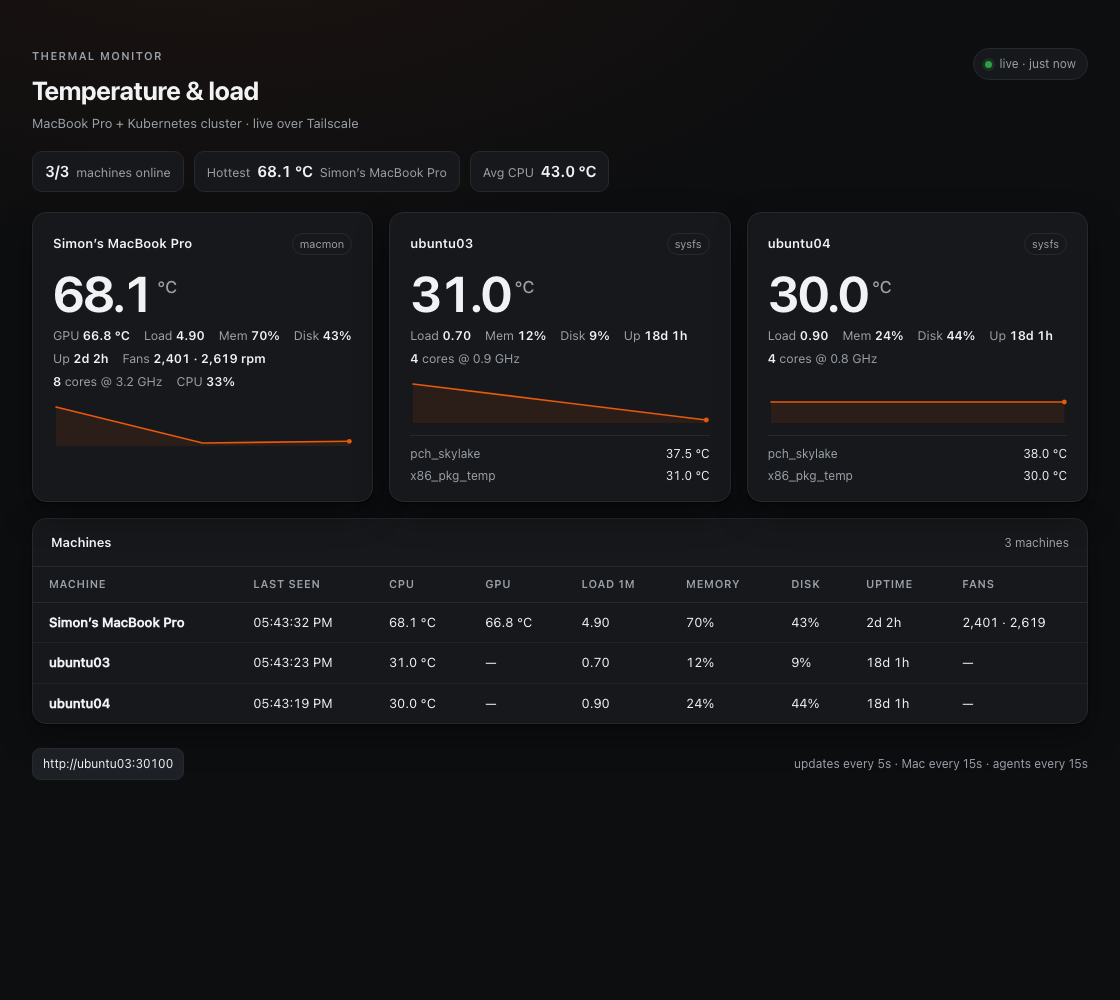
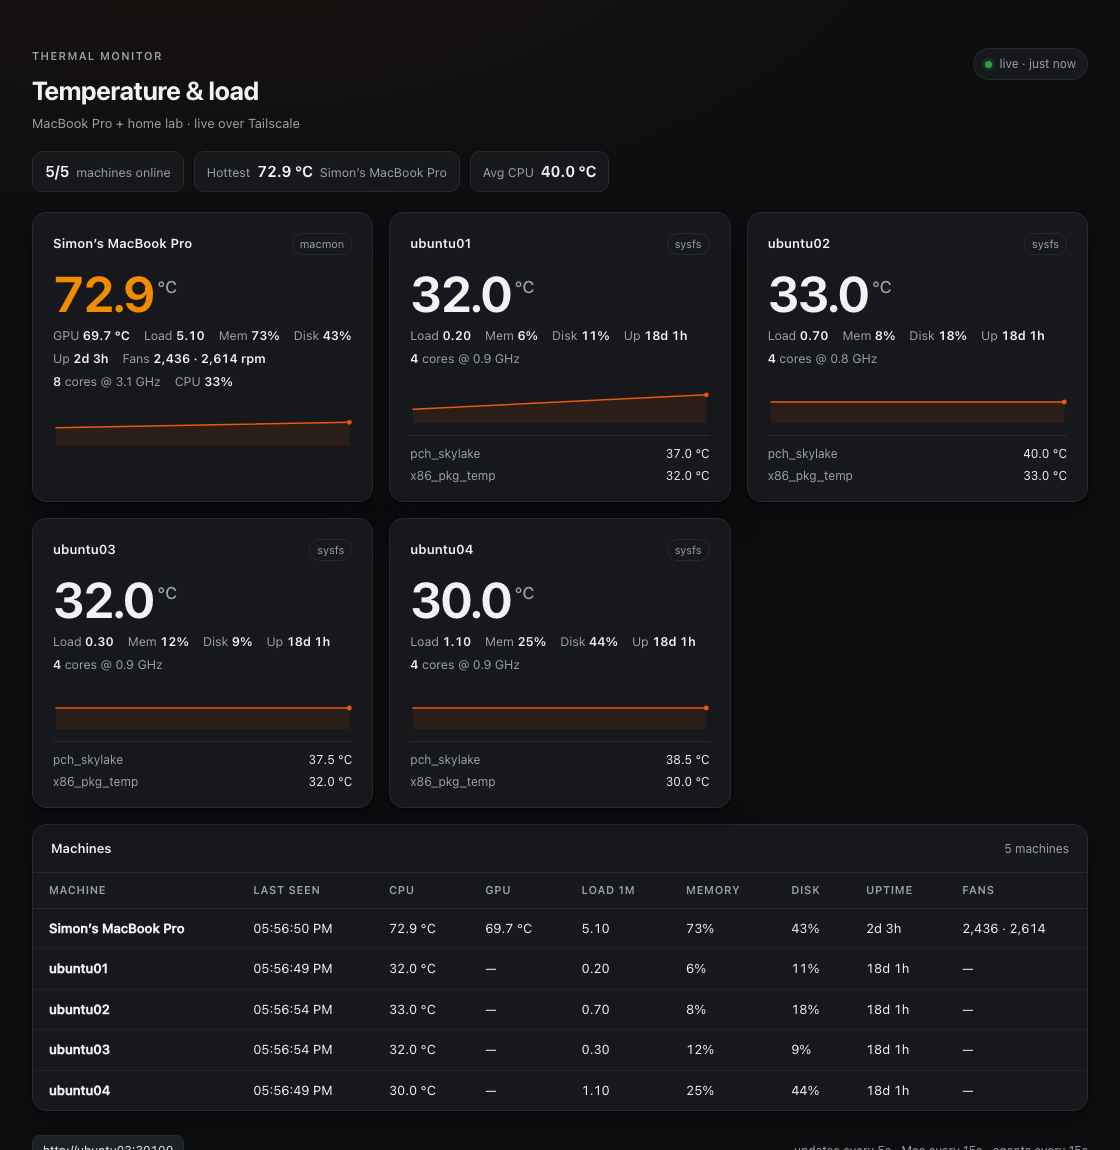
Add ubuntu01/02 agents and cover the whole home lab

diff --git a/src/dashboard.html b/src/dashboard.html
@@ -127,7 +127,7 @@
     <div>
       <p class="eyebrow">Thermal monitor</p>
       <h1>Temperature &amp; load</h1>
-      <p class="sub">MacBook Pro + Kubernetes cluster · live over Tailscale</p>
+      <p class="sub">MacBook Pro + home lab · live over Tailscale</p>
     </div>
     <span class="pill" id="statusPill"><span class="dot"></span><span id="statusText">connecting</span></span>
   </header>

diff --git a/README.md b/README.md
@@ -1,6 +1,6 @@
 # Thermal Monitor
 
-Live heat and load for my whole setup: the MacBook Pro and both Kubernetes nodes, in one dark dashboard.
+Live heat and load for my whole home lab: the MacBook Pro and all four Ubuntu machines, in one dark dashboard.
 
 **Dashboard:** http://ubuntu03:30100/ (tailnet) · **Gallery:** https://projects.navonsimon.com/
 
@@ -8,17 +8,18 @@ Live heat and load for my whole setup: the MacBook Pro and both Kubernetes nodes
 
 ## What it shows
 
-Each machine reports CPU/GPU temperature, load averages, memory and disk usage, uptime, core count, clock speed, fan RPMs and individual thermal zones. The Mac adds GPU and fan sensors from `macmon`; the servers read Linux sysfs, hwmon and `/proc`.
+Each machine reports CPU/GPU temperature, load averages, memory and disk usage, uptime, core count, clock speed, fan RPMs and individual thermal zones. The Mac adds GPU and fan sensors from `macmon`; every Linux machine reads sysfs, hwmon and `/proc`.
 
 ```
-MacBook Pro (launchd, every 15 s) ──┐
-                                    ├──►  thermal-monitor (axum)  ──►  dashboard + JSON API
-ubuntu03  (DaemonSet, every 15 s) ──┤     stores latest + 3 min history
-ubuntu04  (DaemonSet, every 15 s) ──┘     serves :30100 on the tailnet
+MacBook Pro  (launchd, every 15 s) ──┐
+ubuntu01/02  (systemd, every 15 s) ──┤
+ubuntu03/04  (DaemonSet, every 15 s) ─┴──►  thermal-monitor (axum)  ──►  dashboard + JSON API
+                                            latest per host + 3 min history
+                                            serves :30100 on the tailnet
 ```
 
 - `serve` — the collector/API/dashboard. In-memory only: latest reading per host plus a rolling history (180 samples).
-- `push` — samples the local machine and posts a reading. Runs from launchd on macOS and as a Kubernetes DaemonSet on the cluster.
+- `push` — samples the local machine and posts a reading. Runs from launchd on macOS, from systemd user units on the two non-Kubernetes machines, and as a Kubernetes DaemonSet on the cluster nodes.
 - `read` — prints one local sample as JSON.
 - `/agent/binary` — the running binary serves itself; the DaemonSet pulls it at startup, so agents don't need the private registry.
 - Only one server replica by design: history lives in memory and resets on rollout.
@@ -56,14 +57,48 @@ kubectl -n thermal-monitor create secret generic thermal-token \
 ```
 
 - `Deployment` on **ubuntu04** (the image registry only listens on its loopback), NodePort **30100**.
-- `DaemonSet` on every node. It downloads the binary from the server and mounts the host root read-only for accurate disk usage.
+- `DaemonSet` on every cluster node. It downloads the binary from the server and mounts the host root read-only for accurate disk usage.
+- `ubuntu01` and `ubuntu02` are not Kubernetes nodes; they run the static binary as a systemd user service (see below).
 
-## Mac collector
+## Agents
+
+### Upgrade the binary everywhere
+
+```sh
+cargo build --release
+cp target/release/thermal-monitor bin/thermal          # Mac
+docker create thermal-monitor:<tag>                    # Linux agents
+```
+
+The Linux agents on `ubuntu01/02` live at `~/.local/bin/thermal` and are restarted with `systemctl --user restart thermal-agent`.
+
+### systemd user unit (ubuntu01, ubuntu02)
+
+`~/.config/systemd/user/thermal-agent.service`:
+
+```ini
+[Unit]
+Description=Thermal monitor agent
+After=network-online.target
+Wants=network-online.target
+
+[Service]
+ExecStart=%h/.local/bin/thermal push --url http://100.119.17.32:30100/api/report
+Restart=always
+RestartSec=3
+
+[Install]
+WantedBy=default.target
+```
+
+```sh
+systemctl --user enable --now thermal-agent
+```
+
+### Mac collector
 
 ```sh
 brew install macmon
-cargo build --release
-cp target/release/thermal-monitor bin/thermal
 mkdir -p ~/.config/thermal-monitor
 printf '%s' '<token>' > ~/.config/thermal-monitor/token
 chmod 600 ~/.config/thermal-monitor/token
